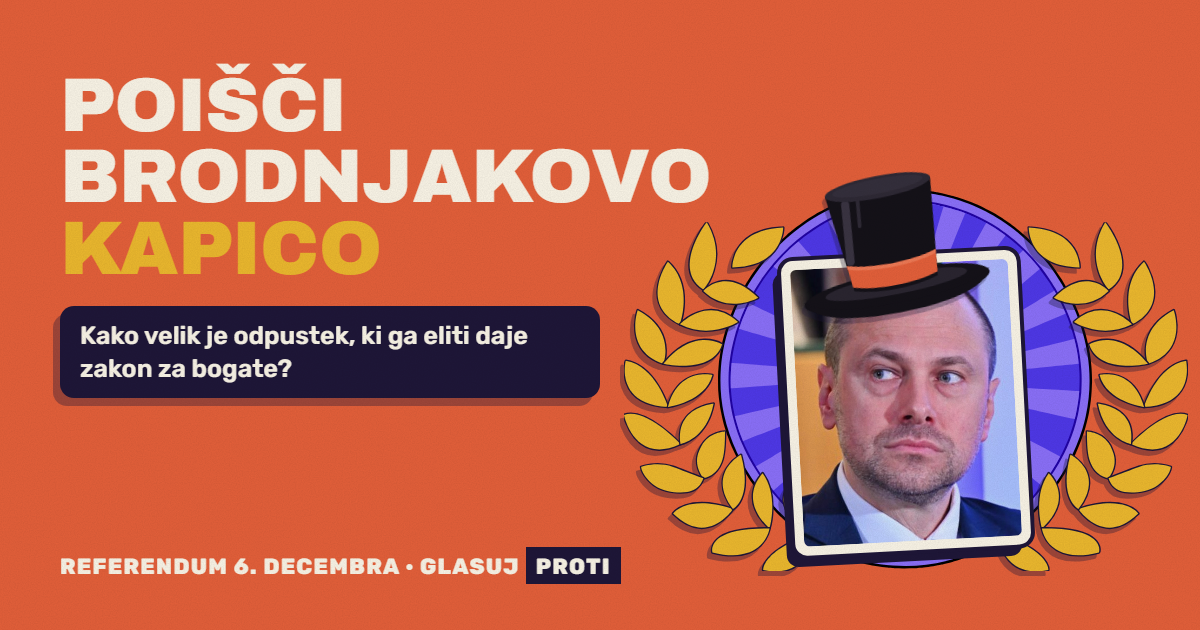
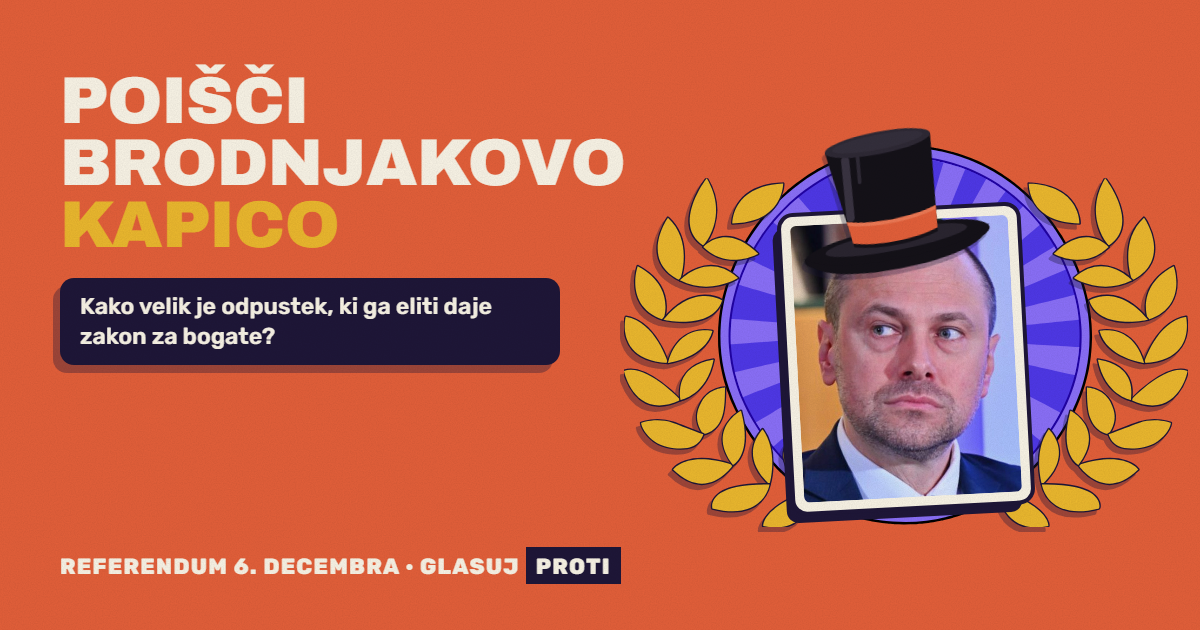
OG slika: Brodnjak spet višje, manjši naslov in podnaslov

diff --git a/og.html b/og.html
@@ -47,8 +47,8 @@ h1 em{font-style:normal;color:var(--accent)}
 .ve .foot em,.vf .foot em,.vg .foot em{background:var(--ink)}
 .ve .sub,.vf .sub,.vg .tag{display:none}
 .vg .left{top:70px}
-.vg h1{margin-top:0;font-size:76px}
-.vg .sub{font:600 27px/1.3 'Rubik';max-width:540px;margin-top:22px}
+.vg h1{margin-top:0;font-size:66px}
+.vg .sub{font:600 27px/1.3 'Rubik';max-width:500px;margin-top:22px}
 .ve .logo,.vf .logo,.vg .logo{right:auto;left:50px;top:auto;bottom:28px;width:120px;transform:rotate(-6deg)}
 .ve .foot,.vg .foot{left:190px;bottom:70px}
 .vf .tag{display:none}
@@ -56,15 +56,15 @@ h1 em{font-style:normal;color:var(--accent)}
 .vf h1{margin-top:0;font-size:72px}
 .vf .logo{width:160px;bottom:18px;left:44px;transform:rotate(-8deg)}
 .vf .foot{left:226px;bottom:74px}
-.vg .sub{display:inline-block;background:var(--ink);color:var(--paper);padding:14px 20px 13px;border-radius:14px;box-shadow:-7px 8px 0 rgba(30,22,56,.35);font-size:25px}
+.vg .sub{display:inline-block;background:var(--ink);color:var(--paper);padding:14px 20px 13px;border-radius:14px;box-shadow:-7px 8px 0 rgba(30,22,56,.35);font-size:23px}
 /* G: brez logotipa, večji Brodnjak */
 .vg .logo{display:none}
 .vg .foot{left:60px;bottom:52px}
 .vg .right{left:626px;width:560px}
-.vg .rays{width:420px;top:60%}
-.vg .br{width:400px;top:63%}
+.vg .rays{width:420px;top:53%}
+.vg .br{width:400px;top:56%}
 .vg .br.l{left:calc(50% - 82px)} .vg .br.r{left:calc(50% + 82px)}
-.vg .frame{width:236px;top:62%}
+.vg .frame{width:236px;top:55%}
 .hide{display:none}
 </style>
 </head>
